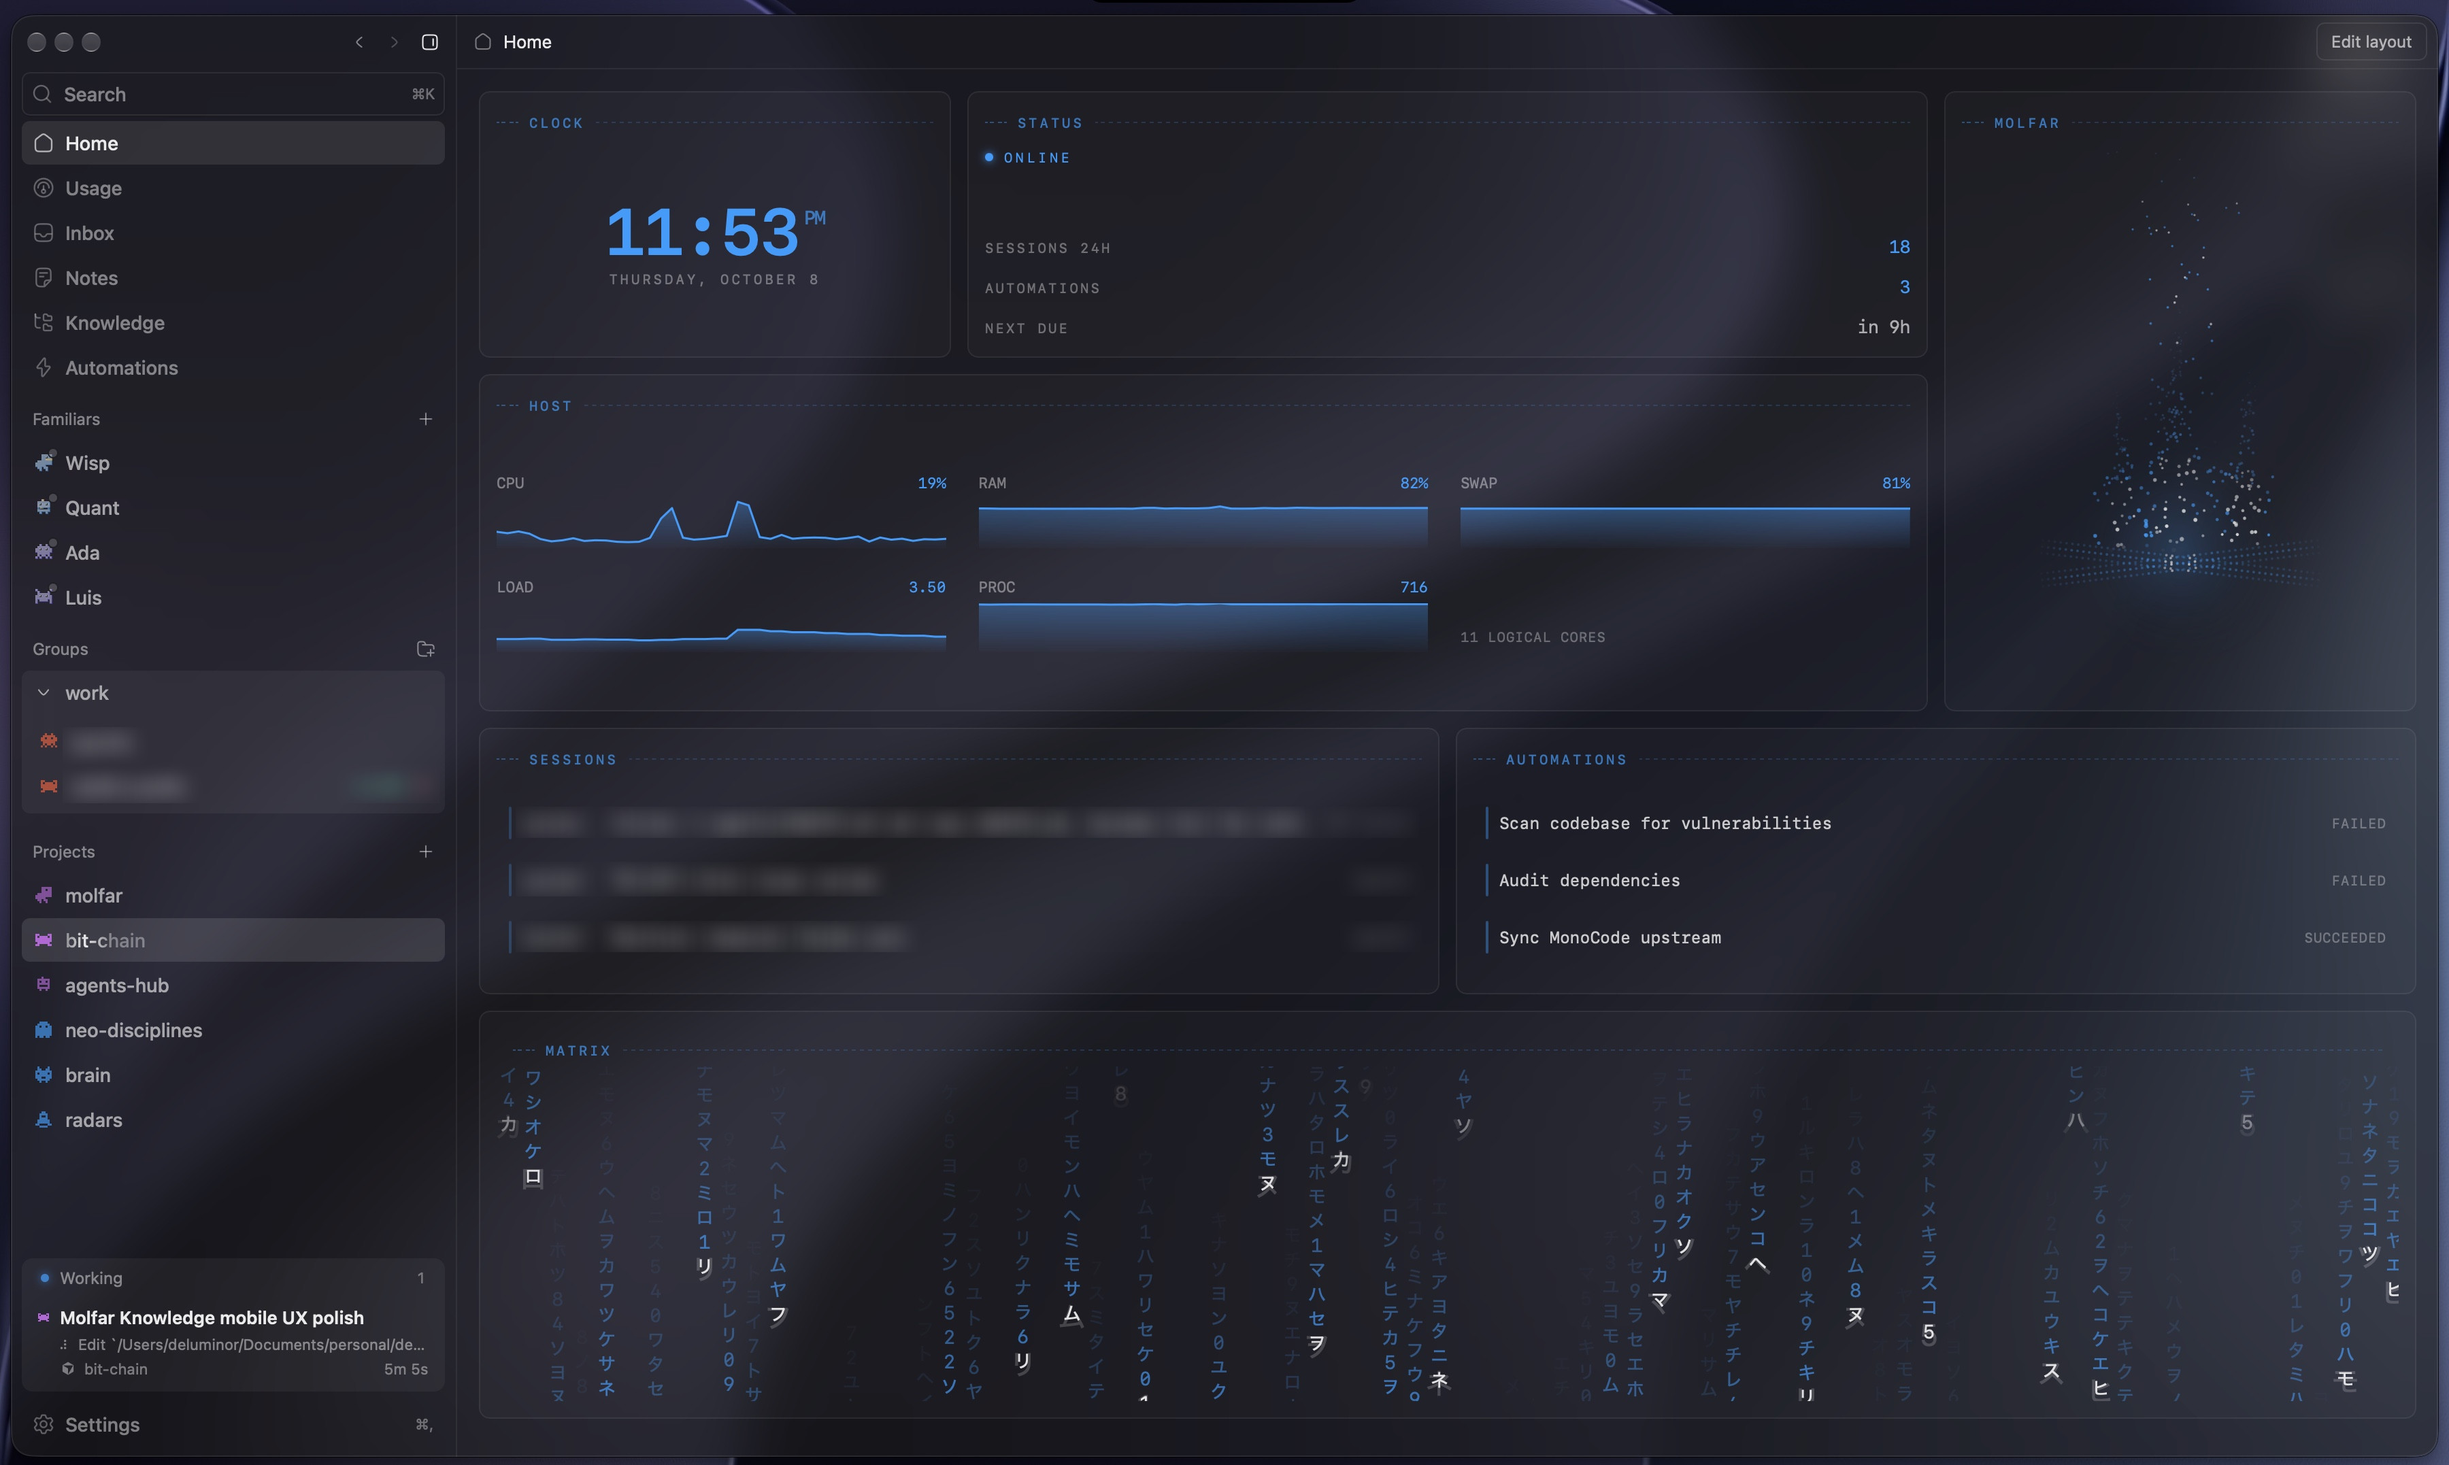
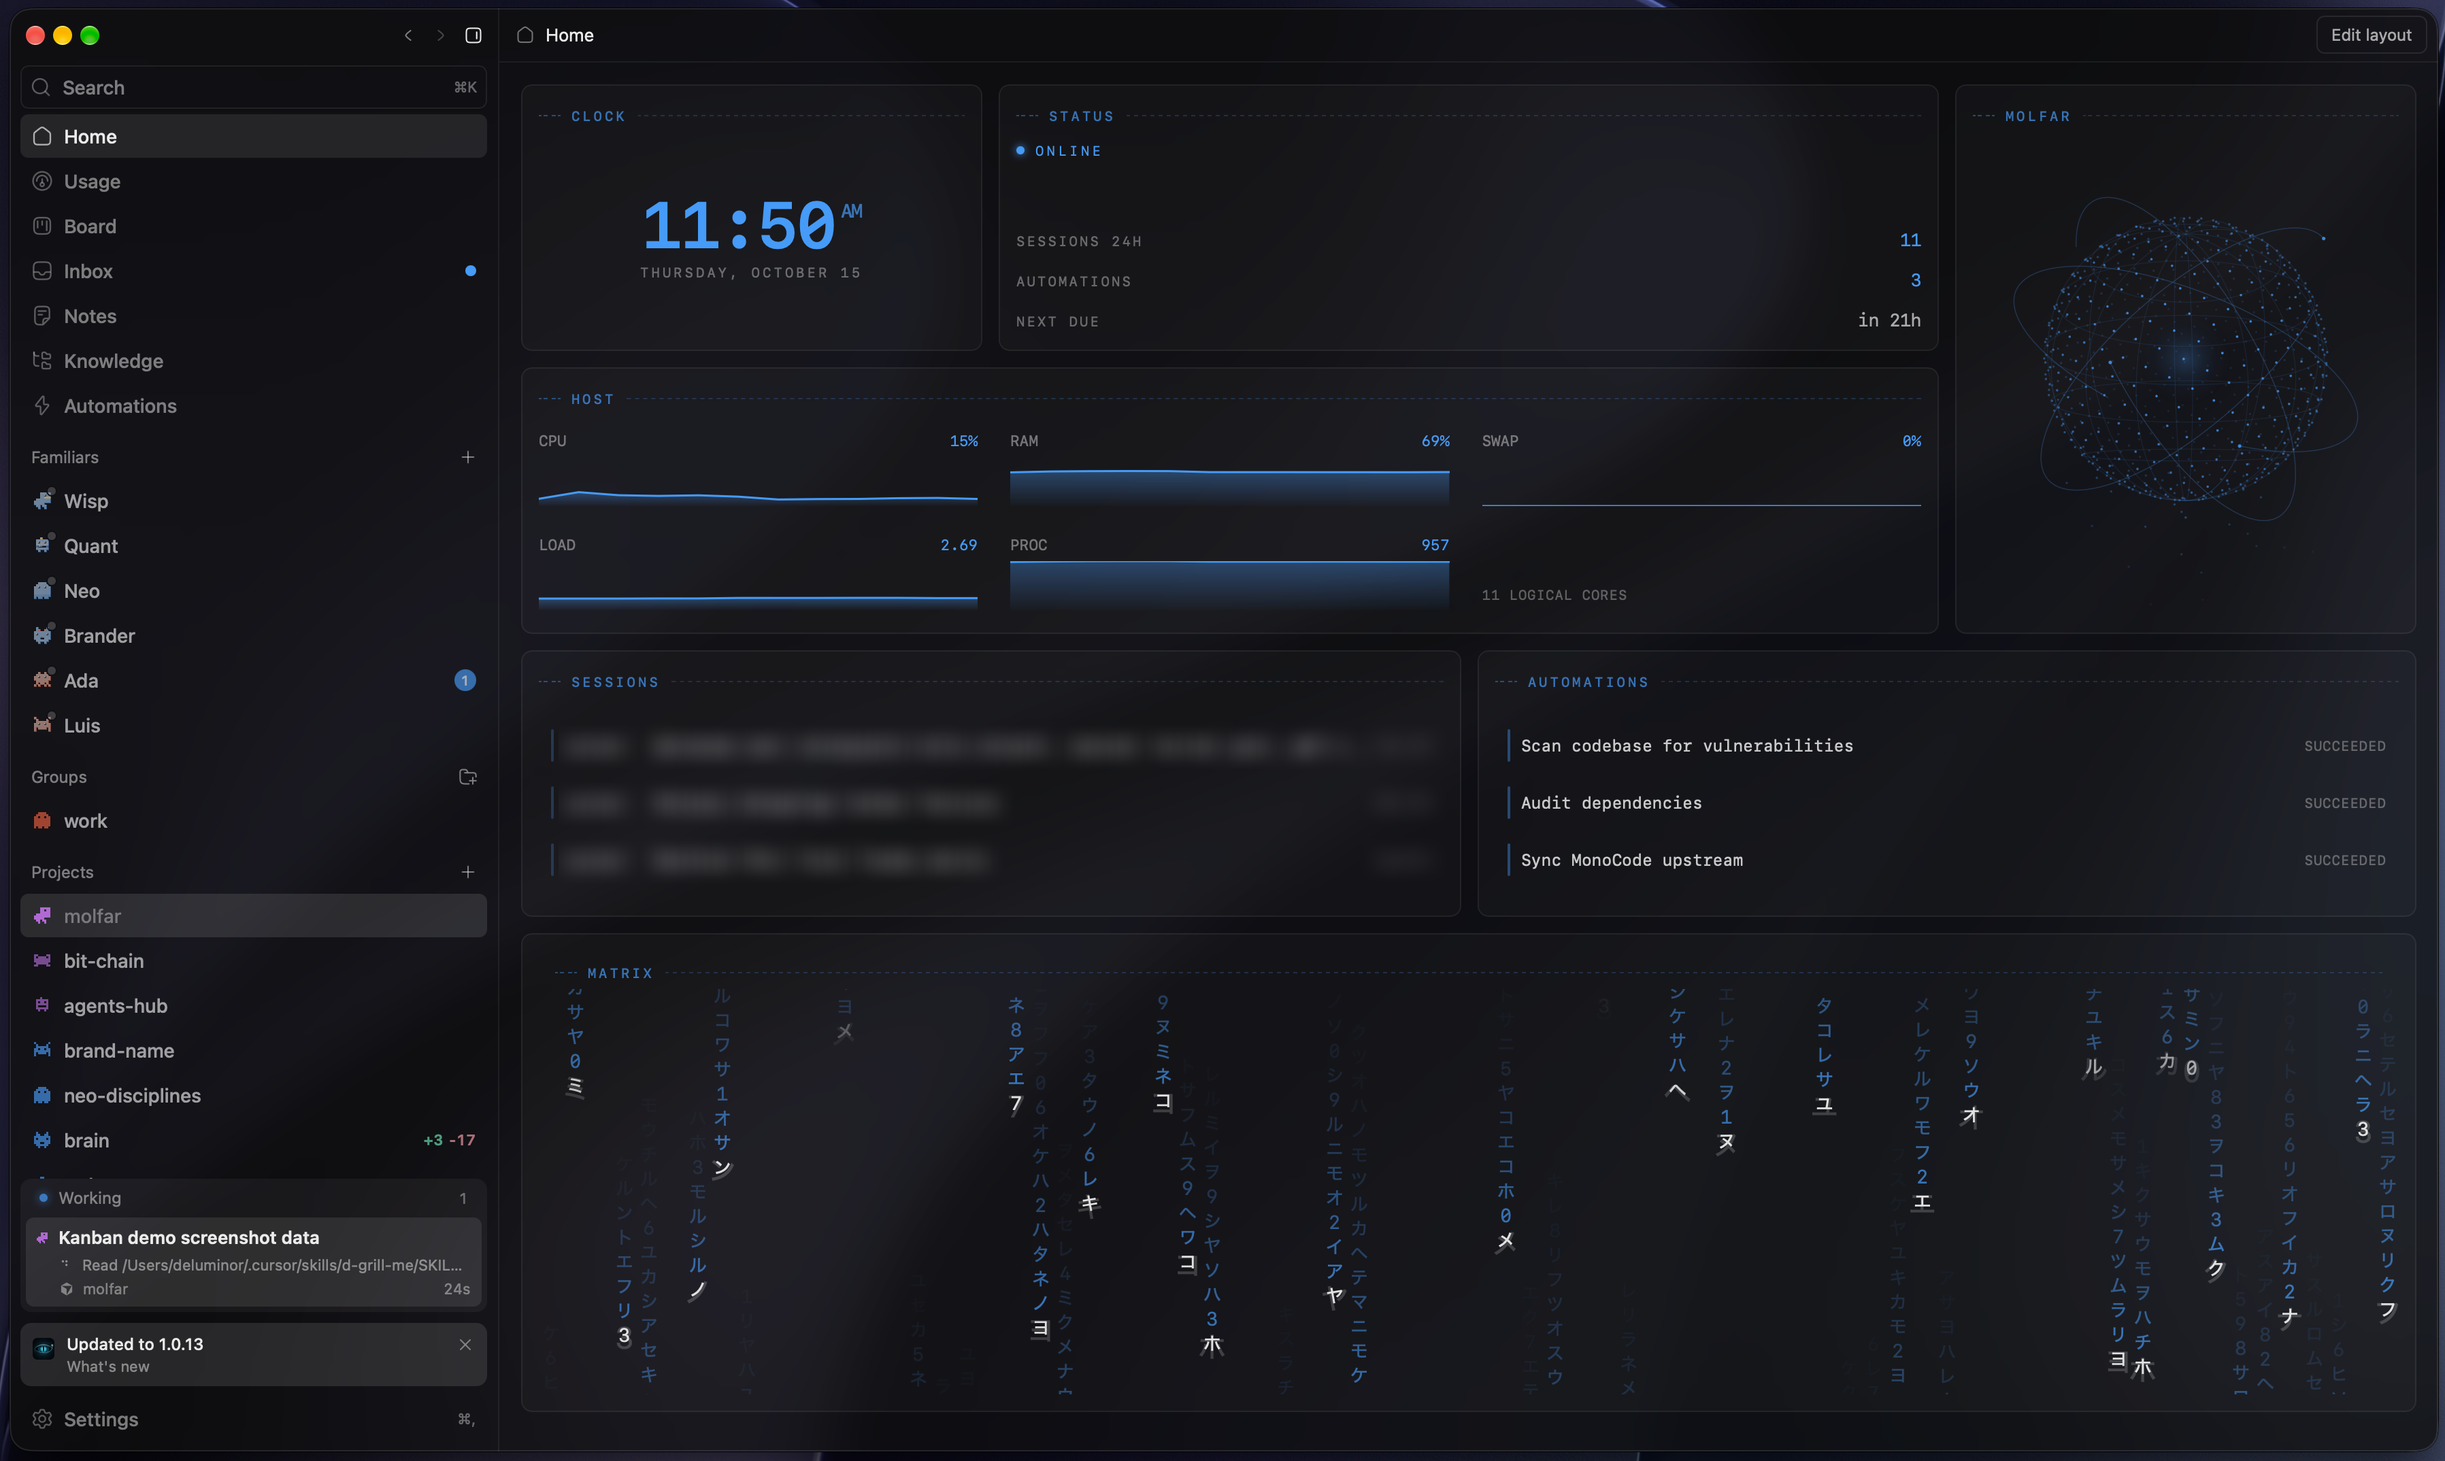
feat(task-board): archive delivered cards from the card drawer
- Show Archive (not hidden actions) on Done cards; Reject unchanged elsewhere
- Archive skips worktree cleanup; unfinished reject still runs cleanup
- Document Task Board in README and CHANGELOG; add board screenshots

diff --git a/src/features/task-board/ui/card-detail/GateActions.tsx b/src/features/task-board/ui/card-detail/GateActions.tsx
@@ -1,6 +1,6 @@
 import { useState, type ReactNode } from "react";
 import { confirmApp } from "../../../../app/model/appDialog";
-import { GitMerge, GitPullRequest, GitBranch, Play, RotateCcw, Square, Trash2, Undo2, Check } from "../../../../shared/ui/icons";
+import { Archive, GitMerge, GitPullRequest, GitBranch, Play, RotateCcw, Square, Trash2, Undo2, Check } from "../../../../shared/ui/icons";
 import { isAgentStage } from "../../constants/columns";
 import { transition } from "../../model/transitions";
 import type { OwnerAction } from "../../services/actions";
@@ -30,13 +30,19 @@ export function GateActions({ card, openDelivery, github, onAct }: Props): React
   const [override, setOverride] = useState<StageModelConfig | undefined>(undefined);
   const allowed = (action: OwnerAction["type"]) => transition(card, action === "deliver" ? "deliverStart" : action).ok;
   const methods = github === false ? DELIVERY.filter((entry) => entry.method === "keep") : DELIVERY;
+  const delivered = card.columnId === "done";
 
-  const reject = async () => {
-    const ok = await confirmApp("Archive this card? Its worktree is deleted, and its branch too unless it was pushed.", {
-      title: "Reject card",
-      okLabel: "Reject",
-      kind: "warning",
-    });
+  const archive = async () => {
+    const ok = await confirmApp(
+      delivered
+        ? "Archive this card? It leaves the board and stays available under Archived."
+        : "Archive this card? Its worktree is deleted, and its branch too unless it was pushed.",
+      {
+        title: delivered ? "Archive card" : "Reject card",
+        okLabel: delivered ? "Archive" : "Reject",
+        kind: "warning",
+      },
+    );
     if (ok) await onAct({ type: "reject" });
   };
 
@@ -48,7 +54,7 @@ export function GateActions({ card, openDelivery, github, onAct }: Props): React
     await onAct({ type: "deliver", method });
   };
 
-  if (card.archived || card.columnId === "done") return null;
+  if (card.archived) return null;
 
   return (
     <div className="flex shrink-0 flex-col gap-2 border-t border-stroke bg-content/[0.02] px-4 py-3">
@@ -112,8 +118,9 @@ export function GateActions({ card, openDelivery, github, onAct }: Props): React
         ) : null}
         <div className="flex-1" />
         {allowed("reject") ? (
-          <button type="button" onClick={() => void reject()} className={DANGER_BUTTON}>
-            <Trash2 className="size-3.5" strokeWidth={1.75} /> Reject
+          <button type="button" onClick={() => void archive()} className={DANGER_BUTTON}>
+            {delivered ? <Archive className="size-3.5" strokeWidth={1.75} /> : <Trash2 className="size-3.5" strokeWidth={1.75} />}
+            {delivered ? "Archive" : "Reject"}
           </button>
         ) : null}
       </div>

diff --git a/src/features/task-board/model/transitions.test.ts b/src/features/task-board/model/transitions.test.ts
@@ -42,6 +42,7 @@ describe("transition", () => {
     ["implement", "queued", "cancel", "implement/failed"],
     ["final_review", "idle", "reject", "final_review/idle/archived"],
     ["backlog", "idle", "reject", "backlog/idle/archived"],
+    ["done", "idle", "reject", "done/idle/archived"],
   ])("%s/%s + %s → %s", (column, state, action, expected) => {
     expect(next(column, state, action)).toBe(expected);
   });
@@ -57,10 +58,15 @@ describe("transition", () => {
     ["final_review", "running", "deliverStart"],
     ["final_review", "idle", "editTask"],
     ["implement", "running", "reject"],
-    ["done", "idle", "reject"],
     ["done", "idle", "start"],
   ])("refuses %s/%s + %s", (column, state, action) => {
     expect(transition(at(column, state), action).ok).toBe(false);
+  });
+
+  it("archives a done card without cleanup side effects", () => {
+    const result = transition(at("done"), "reject");
+    expect(result.ok && result.effects).toEqual([]);
+    expect(result.ok && result.archived).toBe(true);
   });
 
   it("refuses everything on an archived card", () => {

diff --git a/src/features/task-board/model/transitions.ts b/src/features/task-board/model/transitions.ts
@@ -133,10 +133,14 @@ export function transition(card: CardPosition, action: BoardActionType): Transit
   if (card.archived) return { ok: false, reason: "The card is archived." };
 
   if (action === "reject") {
-    const finished = card.columnId === "done";
-    const busy = card.runState === "running";
-    if (finished || busy) return refuse(action, card);
-    return move(card.columnId, "idle", ["cleanupWorktree"], true);
+    if (card.runState === "running") return refuse(action, card);
+    // Done cards archive without further cleanup; delivery already dropped the worktree.
+    return move(
+      card.columnId,
+      "idle",
+      card.columnId === "done" ? [] : ["cleanupWorktree"],
+      true,
+    );
   }
 
   return agentTransition(card, action) ?? gateTransition(card, action) ?? refuse(action, card);

diff --git a/src/features/task-board/ui/card-detail/card-detail.test.ts b/src/features/task-board/ui/card-detail/card-detail.test.ts
@@ -164,8 +164,14 @@ describe("GateActions", () => {
     expect(button("Squash-merge")).toBeUndefined();
   });
 
-  it("renders nothing once delivered", () => {
-    render({ columnId: "done" });
-    expect(container.innerHTML).toBe("");
+  it("offers Archive on a delivered card", async () => {
+    const onAct = render({ columnId: "done" });
+    expect(labels()).toEqual(["Archive"]);
+    await act(async () => button("Archive").click());
+    expect(confirmApp).toHaveBeenCalledWith(
+      "Archive this card? It leaves the board and stays available under Archived.",
+      expect.objectContaining({ title: "Archive card", okLabel: "Archive" }),
+    );
+    expect(onAct).toHaveBeenCalledWith({ type: "reject" });
   });
 });

diff --git a/README.md b/README.md
@@ -22,7 +22,7 @@ Interactive diagrams: [system overview](docs/architecture/molfar-system.html) ·
 
 | Layer                 | Responsibility                                                                                     |
 | --------------------- | -------------------------------------------------------------------------------------------------- |
-| **React UI**          | Sessions, Familiars, Inbox, Notes, Knowledge, Home, Usage, Settings, and the workspace around them |
+| **React UI**          | Board, Sessions, Familiars, Inbox, Notes, Knowledge, Home, Usage, Settings, and the workspace around them |
 | **Harness layer**     | Normalizes heterogeneous provider CLIs and ACP/stdio transports into one session event model       |
 | **Tauri core (Rust)** | Filesystem, PTY, Git, session and Familiar persistence, host metrics, Atlassian, local control CLI |
 | **Connectors**        | GitHub, GitLab, Linear, Jira, Azure DevOps, Confluence, using credentials stored on the machine    |
@@ -44,6 +44,7 @@ The important boundary is the **harness layer**: provider CLIs stay native to th
 src/
 ├── app/                 # Shell composition, window chrome, startup, updates
 ├── features/            # Product slices (UI + model + tests per feature)
+│   ├── task-board/      # Global Kanban: stages, artifacts, delivery
 │   ├── sessions/        # Composer, transcripts, BTW, second opinion
 │   ├── inbox/           # Connectors incl. Confluence Docs
 │   ├── home/            # Dashboard grid; Sphere, Fire and Orb visuals
@@ -56,7 +57,7 @@ src/
 ├── platform/tauri/      # Browser ↔ Tauri adapters
 ├── shared/              # Reusable UI primitives (no feature logic)
 └── styles/              # Global CSS + design tokens
-src-tauri/src/           # Rust: PTY, FS, git, inbox, jira, confluence, vault, familiars, control CLI
+src-tauri/src/           # Rust: PTY, FS, git, task board, inbox, jira, confluence, vault, familiars, control CLI
 host/                    # Experimental remote host (Node) for always-on agent machines
 docs/
 ├── architecture/        # Interactive HTML diagrams, JSON sources, README images
@@ -95,6 +96,19 @@ The name is a nod to the _molfar_ — the Carpathian wise man who reads signs an
 ## What it does
 
 ![MOLFAR Home dashboard](docs/architecture/images/home.png)
+
+### Board: Kanban that runs the agent loop
+
+A global **Task Board** on the project rail turns a task into a staged pipeline instead of an open-ended chat. Cards move through **Backlog → Grill → Plan approval → Implement → Code review → Final review → Done**, with **Rework** when review sends work back. Each agent stage runs in a fresh hidden session inside the card's own Git worktree; stages hand off only through versioned **spec, plan, report, and review** artifacts.
+
+- Per-column **model, effort, and permission mode**, with per-card overrides on retry.
+- **Plan approval** and **final review** always wait for you — approve, request changes, deliver as a pull request, squash-merge, or keep the branch.
+- Waiting and failed cards surface as a **count badge** on the Board rail action and on the macOS Dock; delivered cards can be **Archived** so Done stays lean.
+- Paired Companion phones can drive the same board actions while you are away from the desk.
+
+![Task Board Kanban with Grill, Plan approval, Implement, and Code review columns](docs/architecture/images/board1.png)
+
+![Delivered Board card with stage timeline, acceptance criteria, and pull request link](docs/architecture/images/board2.png)
 
 ### Sessions: every agent, one workspace
 
@@ -155,7 +169,7 @@ Project-scoped Markdown notes for decisions, checklists, and context worth reusi
 
 ### Companion: iPhone and iPad over Tailscale
 
-Pair a phone or tablet through the **Molfar** module in BitChain and steer the desktop while it is awake: Familiars and open sessions, approvals and clarifying questions, new sessions, notes, and read-only Knowledge. Traffic stays on the tailnet — Tailscale Serve terminates HTTPS and forwards only to loopback on the laptop. Details and pairing steps: [docs/companion.md](docs/companion.md).
+Pair a phone or tablet through the **Molfar** module in BitChain and steer the desktop while it is awake: Familiars and open sessions, Task Board gates, approvals and clarifying questions, new sessions, notes, and read-only Knowledge. Traffic stays on the tailnet — Tailscale Serve terminates HTTPS and forwards only to loopback on the laptop. Details and pairing steps: [docs/companion.md](docs/companion.md).
 
 ![Molfar companion on iPhone — overview with Familiars and host stats beside a session transcript with photo and dictation composer](docs/architecture/images/phone.jpg)
 

diff --git a/CHANGELOG.md b/CHANGELOG.md
@@ -7,13 +7,21 @@ and this project adheres to [Semantic Versioning](https://semver.org/spec/v2.0.0
 
 ## [Unreleased]
 
+### Added
+
+- Delivered Task Board cards can be **Archived** from the card drawer. They leave the active board and remain under the Archived filter; unfinished cards still use Reject.
+
+### Changed
+
+- The Board rail **waiting count** sits on the right of the row—same trailing slot as Familiar unread badges—instead of a left-side pill beside the icon. Inbox dots and Search shortcuts still use that trailing slot when there is no count.
+
 ## [1.0.13] - 2026-10-15
 
 ### Added
 
 - A global **Task Board** on the project rail runs each card through Grill, Plan approval, Implement, Code review, Final review and Rework. Every agent stage runs in a fresh hidden session inside the card's own worktree. Stages hand off only through versioned spec, plan, report and review files; Grill and Code review leave the checkout untouched, Implement and Rework commit. Plan approval and final review always wait for you; delivery opens a pull request, squash-merges it, or keeps the branch.
 - Each board column picks its **model, effort and permission mode**; cards can override them on retry, and at most three stages run at once by default. Stages use the hub skills for their job, Code review drafts the pull request description, and stage sessions appear in the project's session list.
-- Cards waiting at a gate or failed show a **count badge** on the Board rail action and on the macOS Dock (alongside pending session input). Gate and failure events raise a project banner that respects mute settings.
+- Cards waiting at a gate or failed surface as a **count badge** on the Board rail action and on the macOS Dock, sharing the Dock total with sessions that need input. Gate and failure events also raise a project banner that respects mute settings.
 - Paired Companion phones can drive the board with **`board.*`** actions and see board attention in the overview.
 
 ## [1.0.12] - 2026-10-14
